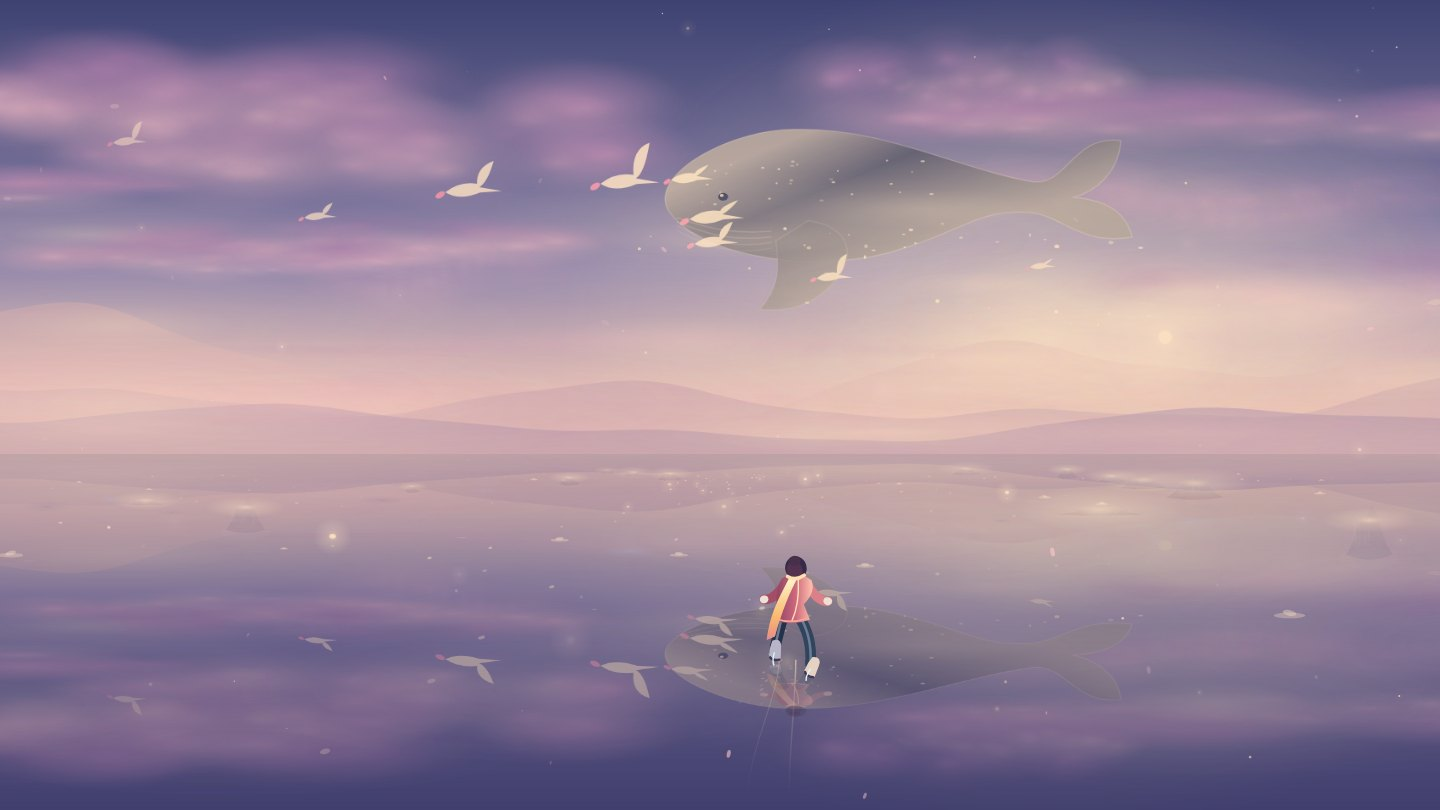
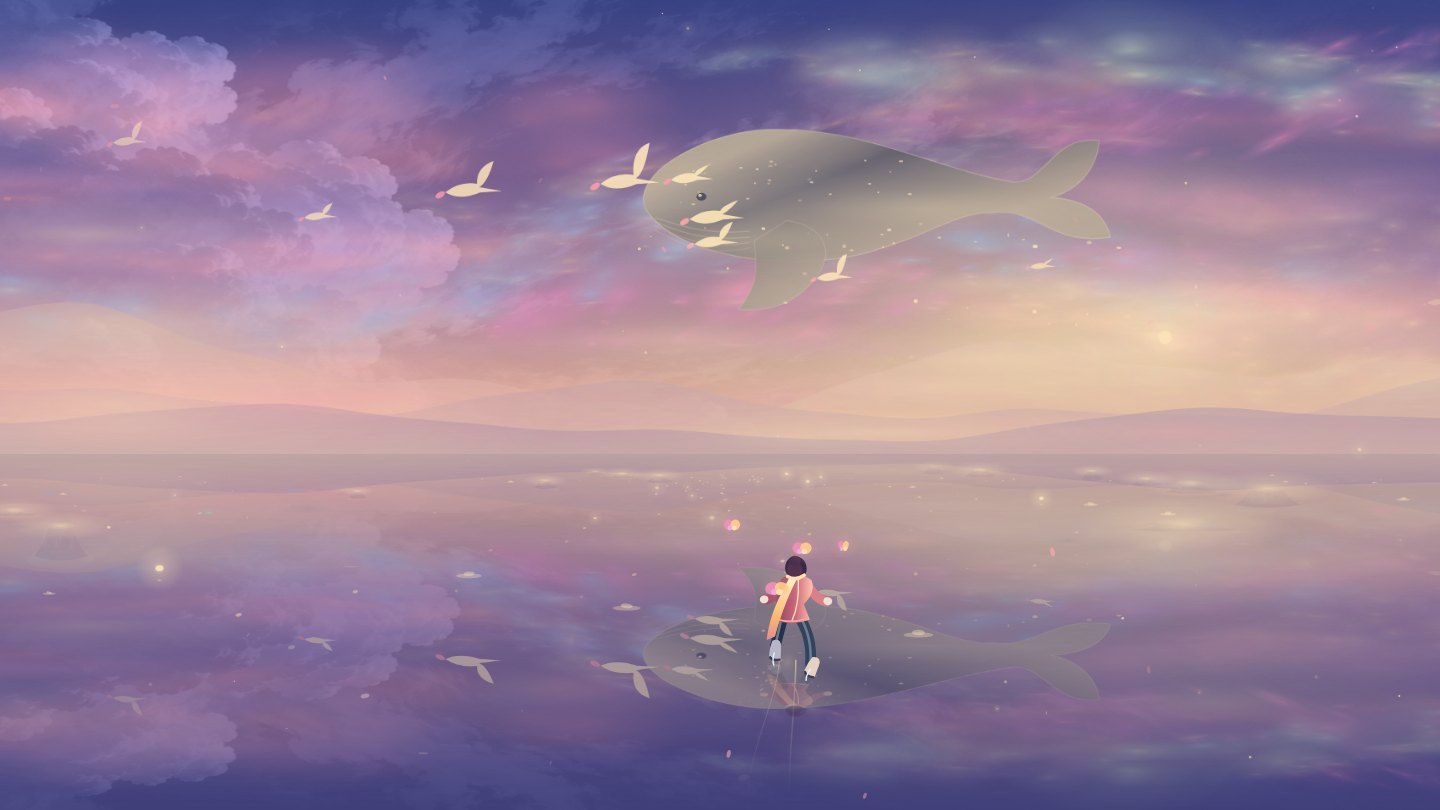
Paint richer dreamscapes and add fleeting companions and verses

diff --git a/index.html b/index.html
@@ -91,7 +91,6 @@ dialog p{color:var(--muted);font-size:13px;margin:8px 0 17px}
       <button class="tool" id="view" type="button" aria-label="开启观景模式" aria-pressed="false" title="观景模式 · H">
         <svg viewBox="0 0 24 24" aria-hidden="true"><path d="M9 4H4v5m11-5h5v5M4 15v5h5m11-5v5h-5"/></svg>
       </button>
-      <button class="tool" id="journal" type="button" aria-label="打开滑行手记" title="滑行手记">卷</button>
       <button class="tool" id="help" type="button" aria-label="操作说明" title="操作说明">?</button>
     </nav>
   </header>
@@ -150,7 +149,8 @@ dialog p{color:var(--muted);font-size:13px;margin:8px 0 17px}
     <h2 id="helpTitle">自在滑行</h2>
     <p><kbd>←</kbd> <kbd>→</kbd> 或左右拖动转向。<kbd>空格</kbd> 蹬冰，<kbd>↑</kbd> / <kbd>↓</kbd> 加速或刹停。触屏可上下拖动，或按住「加速」「刹停」。</p>
     <p><kbd>Enter</kbd> 换梦，<kbd>H</kbd> 观景，<kbd>P</kbd> 留影。靠近冰面上的光点，会遇见几句旅途中的话。</p>
-    <p>松开按键后，你会凭惯性继续滑。按住刹停可以留在原地看风景。海棠、海雾、鲲与云海会依次出现，读过的话会留在「卷」里。配乐会随场景变化，点右上角扬声器可以开关。</p>
+    <p>松开按键后，你会凭惯性继续滑。按住刹停可以留在原地看风景。海棠、海雾、鲲与云海会依次出现。配乐会随场景变化，点右上角扬声器可以开关。</p>
+    <button class="chip" id="journal" type="button">滑行手记</button>
   </dialog>
 </main>
 <script>
@@ -185,19 +185,21 @@ function dreamFor(word) {
 const chapters = [
   {at:0, name:"海棠渡", icon:"✿", weather:"晨光 · 花瓣", index:0, seed:45,
     lines:[[0,"一朵海棠逆着风，在你的冰刀前打了个旋。"],[205,"花瓣贴着冰面滑向水天交界处。你侧过身，顺着它划出的弧线追过去。"]]},
-  {at:450, name:"海雾深处", icon:"≋", weather:"潮声 · 雾起", index:2, seed:109,
-    sky:[53,59,93], mid:[137,128,159], line:[235,178,166], cloud:[224,177,179], hills:[112,94,137], water:[43,42,73], light:[255,205,178],
-    lines:[[0,"花瓣一片片沉入雾里。雾的另一侧，有什么缓缓吐出一口气。"],[230,"那一口气吹开了海面。你看见水下有一条比岛还长的影子。"]]},
-  {at:1010, name:"北冥有鱼", icon:"◒", weather:"深海 · 鲲游", index:1, seed:193,
-    lines:[[35,"北冥有鱼，其名为鲲。"],[315,"它从水里抬起背脊，散落的水珠停在了空中。"]]},
-  {at:1700, name:"天接云涛", icon:"☁", weather:"云浪 · 天河", index:2, seed:313,
-    sky:[61,66,113], mid:[145,133,170], line:[255,204,179], cloud:[247,195,196], hills:[133,109,159], water:[67,61,107], light:[255,228,195],
-    lines:[[45,"天接云涛连海雾。"],[325,"鲲在云浪间翻身，惊起几只白色的飞鱼。它们衔着海棠，把天边染得微红。"]]},
-  {at:2440, name:"天河星原", icon:"✦", weather:"星雨 · 长夜", index:3, seed:411,
-    lines:[[55,"鲲往更深的夜里去了。一片花瓣落在你的围巾上，和出发时一样轻。"],[340,"远处还有星光。你可以跟着它继续滑，也可以在这里多待一会儿。"]]}
+  {at:450, name:"海雾深处", icon:"≋", weather:"潮声 · 雾起", index:2, seed:109, painting:1,
+    sky:[48,57,99], mid:[155,117,158], line:[237,178,158], cloud:[229,159,187], shadow:[94,84,143], hills:[97,114,151], water:[41,47,81], light:[255,217,180],
+    lines:[[0,"雾从冰缝里慢慢涨起来，把远山染成淡紫色。"],[155,"一只白鸟贴着雾飞。它每拍一下翅膀，冰里就亮一小片。"],[310,"白鸟转向了海的另一边。你听见雾深处，有什么长长地呼出一口气。"],[465,"薄冰之下，一条比岛还长的影子，正朝着天光游去。"]]},
+  {at:1080, name:"北冥有鱼", icon:"◒", weather:"深海 · 鲲游", index:1, seed:193, painting:2,
+    sky:[21,34,77], mid:[56,119,139], line:[139,205,194], cloud:[135,180,223], shadow:[77,62,133], hills:[56,91,125], water:[16,44,75], light:[196,255,223],
+    lines:[[35,"北冥有鱼，其名为鲲。"],[190,"它抬起背脊，冰下的青光沿着鳞纹，一寸一寸亮起来。"],[340,"从它身上落下来的水珠没有落地。一颗停在眉前，一颗成了远处的星。"],[510,"你抬头时，它已游过月亮。冰面还替你留着它的影子。"]]},
+  {at:1740, name:"天接云涛", icon:"☁", weather:"云浪 · 天河", index:2, seed:313, painting:3,
+    sky:[60,69,135], mid:[162,125,168], line:[255,205,165], cloud:[250,165,174], shadow:[112,107,180], hills:[125,110,164], water:[69,61,115], light:[255,231,186],
+    lines:[[40,"天接云涛连海雾。"],[195,"鲲在云浪间翻身，惊起几只白色的飞鱼。它们衔着海棠，把天边染得微红。"],[350,"两只蝶在你肩旁停了一会儿。它们的翅膀，一面是暮色，一面是金光。"],[520,"云从你脚下过去，留下一道桃色的倒影。再回头，蝴蝶已经飞进云里。"]]},
+  {at:2470, name:"天河星原", icon:"✦", weather:"星雨 · 长夜", index:3, seed:411, painting:4,
+    sky:[18,25,68], mid:[77,67,141], line:[159,145,202], cloud:[164,150,230], shadow:[66,62,136], hills:[83,90,155], water:[25,37,84], light:[218,222,255],
+    lines:[[45,"鲲往更深的夜里去了。一片海棠落在你的围巾上，和出发时一样轻。"],[220,"几只萤火虫跟在冰刀后面，像怕踩疼星光，一闪一闪地绕过你的脚边。"],[430,"萤火虫在远处各自散开。最后一点光停了一瞬，也飞走了。"],[590,"我挥一挥衣袖，不带走一片云彩。"],[775,"冰上还留着两道浅浅的弧线。过一会儿，天光就会把它们填满。"]]}
 ];
 const original = {...palettes[0],...chapters[0],word:"",whale:false};
-let chapterIndex=0, routeDistance=0, routePosition=0, routeMode=true, nextLine=0, storyUntil=0;
+let chapterIndex=0, routeDistance=0, routePosition=0, routeMode=true, nextLine=0, storyUntil=0, waveUntil=0;
 const journal = new Map(), pendingLines = [];
 const snapshots = [];
 const viewingDialog = () => ["dreamDialog","helpDialog","journalDialog"].some(id=>$(id).open);
@@ -207,7 +209,8 @@ function storyLine(chapter, lineIndex) {
   $("storyTitle").textContent=chapter.name;
   $("storyLine").textContent=text;
   $("story").classList.add("show");
-  storyUntil=t+7;
+  if(chapter===chapters[4]&&lineIndex===3) waveUntil=t+2.8;
+  storyUntil=t+Math.max(6.6,Math.min(9.2,3.8+Array.from(text).length*.102));
 }
 function travelStory(dt) {
   routePosition=Math.max(0,routePosition+dt*velocity*32);
@@ -218,7 +221,7 @@ function travelStory(dt) {
   }
   const next=chapters[chapterIndex+1];
   if(next && routeDistance>=next.at) enterChapter(chapterIndex+1);
-  if(pendingLines.length && t>=storyUntil-(velocity>1.45?3:1.3)){
+  if(pendingLines.length && t>=storyUntil-(velocity>1.45?3.7:1.7)){
     storyLine(...pendingLines.shift());
   }
 }
@@ -238,7 +241,7 @@ function enterChapter(index, jump=false) {
   const chapter=chapters[index];
   if(jump) {
     routePosition=routeDistance=chapter.at;
-    pendingLines.length=0;storyUntil=0;
+    pendingLines.length=0;storyUntil=waveUntil=0;
     $("story").classList.remove("show");
   }
   routeMode=true;chapterIndex=index;nextLine=0;
@@ -385,6 +388,7 @@ function paintSky(p) {
         bloom(c,0,0,rx,blend(p.shadow,p.cloud,.24+v*.72),.12+size*.4);c.restore();
       }
     }
+    if(p.painting) paintedClouds(c,w,h,p);
     skyDetail(c,w,h,p);
     for(let i=0;i<3;i++) ridge(c,w,h,p,i);
     for(let i=0;i<10;i++){
@@ -395,6 +399,110 @@ function paintSky(p) {
   }
   return b;
 }
+const pigments = [
+  [[251,168,178],[255,210,156],[143,162,220],[174,118,190],[128,193,207],[252,226,184]],
+  [[245,174,152],[231,143,185],[117,161,217],[164,124,208],[120,204,198],[255,225,189]],
+  [[179,240,206],[107,185,235],[160,122,228],[249,173,193],[94,224,199],[249,227,169]],
+  [[255,192,143],[250,140,178],[133,164,241],[181,118,212],[148,211,209],[255,234,175]],
+  [[151,177,250],[208,136,227],[100,174,221],[245,158,180],[118,209,224],[255,220,160]]
+];
+function paintedClouds(c,w,h,p){
+  const colors=pigments[p.painting];
+  // The same sky grain sits under each study, with its own colored cloud banks.
+  if(art.complete&&art.naturalWidth){
+    c.save();c.globalAlpha=p.painting===3?.34:.22;c.globalCompositeOperation="luminosity";
+    const sw=Math.min(art.naturalWidth,art.naturalHeight*w/h);
+    const sh=Math.min(art.naturalHeight,sw*h/w);
+    c.drawImage(art,(art.naturalWidth-sw)*hash(p.seed),0,sw,sh,0,0,w,h);c.restore();
+  }
+  const banks=p.painting===3?9:7;
+  for(let bank=0;bank<banks;bank++){
+    const seed=p.seed*29+bank*101;
+    const x=w*(-.17+hash(seed)*1.26), y=h*(.14+hash(seed+7)*.68);
+    const span=w*(.35+hash(seed+11)*.49), thick=h*(.11+hash(seed+16)*.18);
+    const tone=colors[bank%colors.length], accent=colors[(bank+2)%colors.length];
+    for(let i=0;i<112;i++){
+      const q=seed+i*53, u=hash(q+1), v=hash(q+5), crest=Math.sin(u*Math.PI)**.7;
+      const bend=Math.sin(u*5.8+bank)*.38+Math.sin(u*12+bank*3)*.13;
+      const cx=x+(u-.5)*span, cy=y+(bend+(v-.50)*crest)*thick;
+      const r=span*(.012+hash(q+9)**2*.063);
+      const hue=blend(tone,accent,hash(q+12)*.68);
+      c.save();c.translate(cx,cy);c.rotate(-.17+.33*Math.cos(u*6+bank));c.scale(1,.20+hash(q+2)*.51);
+      bloom(c,0,0,r,hue,crest*(.14+hash(q+21)*.38));c.restore();
+      if(i%4===0){
+        const stroke=blend(hue,colors[5],.29+hash(q+34)*.39);
+        c.save();c.translate(cx,cy+thick*.09);c.rotate(-.17+hash(q+43)*.31);
+        c.scale(1,.12+hash(q+8)*.26);
+        bloom(c,0,0,r*.67,stroke,crest*.39);c.restore();
+      }
+    }
+  }
+}
+function reflectedPigments(){
+  const deep=H-horizon, mix=smooth(transition);
+  const strength=lerp(Number(Boolean(previous.painting)),Number(Boolean(current.painting)),mix);
+  if(strength<.005)return;
+  const before=pigments[previous.painting||0], after=pigments[current.painting||0];
+  for(let i=0;i<40;i++){
+    const offset=hash(i+612)*880-distance, z=66+wrap(offset,880);
+    const seed=i+Math.floor(offset/880)*47, p=project((hash(seed+83)-.5)*640,z);
+    const width=(22+hash(seed+128)*108)*p.scale;
+    if(p.x+width<0||p.x-width>W)continue;
+    const amount=strength*smooth((z-66)/48)*smooth((930-z)/520);
+    const color=blend(before[i%6],after[i%6],mix);
+    ctx.save();ctx.translate(p.x,p.y);ctx.rotate(-.12+hash(seed+9)*.19);ctx.scale(1,.12+hash(seed+34)*.14);
+    bloom(ctx,0,0,width,color,amount*(.18+hash(seed+217)*.35));ctx.restore();
+    if(i%5===0) ellipse(ctx,p.x,p.y+deep*.006,width*.24,.75+p.scale,rgba(color,amount*.36),-.09);
+  }
+}
+const encounters = [
+  {kind:"bird",at:560,end:762,count:3},
+  {kind:"bird",at:1380,end:1675,count:2},
+  {kind:"butterfly",at:2025,end:2245,count:4},
+  {kind:"firefly",at:2535,end:2925,count:9}
+];
+function drawCompanions(px,py,scale,light){
+  if(!routeMode)return;
+  for(const {kind,at,end,count} of encounters){
+    if(routeDistance<at-130||routeDistance>end+95+(count-1)*11)continue;
+    for(let i=0;i<count;i++){
+      const delay=i*11, arrival=smooth((routeDistance-at+115-delay)/135);
+      const leave=smooth((routeDistance-end+58-delay)/153);
+      const opacity=arrival*(1-leave);
+      if(opacity<.004)continue;
+      const seed=at+i*51, side=i%2?1:-1, phase=t*(.9+hash(seed)*.46)+i*2.39;
+      const bird=kind==="bird", butterfly=kind==="butterfly";
+      const reach=bird?95:butterfly?47:52;
+      const follow=(12+hash(seed+9)*reach)*scale;
+      const x=px+side*(follow+(1-arrival+leave)*W*.39)+Math.cos(phase)*scale*(bird?17:13);
+      const flight=reduced?.48:1;
+      const y=py-(bird?120+hash(seed+7)*94:butterfly?53+hash(seed+7)*62:14+hash(seed+7)*49)*scale
+        +Math.sin(phase*.83)*scale*11*flight-leave*H*.32;
+      const size=scale*(.68+hash(seed+12)*.58);
+      ctx.save();ctx.translate(x,y);ctx.scale(size,size);ctx.globalAlpha=opacity;
+      if(bird){
+        const wing=4+Math.sin(t*6+i)*5;
+        ctx.fillStyle=rgba(blend(light,[234,227,255],.54),1);ctx.beginPath();
+        ctx.moveTo(-18,2);ctx.quadraticCurveTo(-8,-wing,0,1);ctx.quadraticCurveTo(9,-wing-2,19,0);
+        ctx.quadraticCurveTo(9,-1,1,5);ctx.quadraticCurveTo(-9,1,-18,2);ctx.fill();
+        ellipse(ctx,0,3,2.2,2.1,"#fff1d7");
+      }else if(butterfly){
+        const spread=.32+.68*Math.abs(Math.sin(t*9+i));
+        bloom(ctx,0,0,15,[255,167,174],.33);
+        ellipse(ctx,-4*spread,0,6*spread,5,rgba([244,142,185],.91),-.32);
+        ellipse(ctx,4*spread,0,6*spread,5,rgba([255,206,141],.91),.32);
+        ellipse(ctx,-2,3,2.9*spread,2.3,"#ebafdf");ellipse(ctx,2,3,2.9*spread,2.3,"#ffe1ac");
+      }else{
+        const glow=.37+.57*(.5+.5*Math.sin(phase*1.6));
+        const color=i%3?[255,224,148]:[163,247,211];
+        bloom(ctx,0,0,10+glow*9,color,glow*.68);
+        ellipse(ctx,0,0,1.5,1.5,rgba(color,glow));
+      }
+      ctx.restore();
+    }
+  }
+}
+
 function drawCached(b, alpha){
   if(!b||alpha<=0)return;
   sk.globalAlpha=alpha;
@@ -473,6 +581,7 @@ function drawWater(light,water) {
   const veil=ctx.createLinearGradient(0,horizon,0,H);
   veil.addColorStop(0,rgba(light,.09));veil.addColorStop(.43,rgba(water,.19));veil.addColorStop(1,rgba(water,.46));
   ctx.fillStyle=veil;ctx.fillRect(0,horizon,W,deep);
+  reflectedPigments();
   const coolTint=[110,148,255], warmTint=[242,167,197];
   const pearl=blend(light,blend(
     previous.index%2?coolTint:warmTint,current.index%2?coolTint:warmTint,smooth(transition)),.48);
@@ -662,8 +771,8 @@ function kun(c,x,y,size,tilt,alpha,light,shadow){
 }
 function drawSkyLife(light) {
   const w=sky.width,h=sky.height,travel=routeDistance;
-  const ascent=smooth((travel-995)/570);
-  const alpha=routeMode?smooth((travel-995)/320)*(1-smooth((travel-2270)/460)):0;
+  const ascent=smooth((travel-1060)/540);
+  const alpha=routeMode?smooth((travel-1060)/280)*(1-smooth((travel-2270)/460)):0;
   const preset=(current.whale?smooth(transition):0)+(previous.whale?1-smooth(transition):0);
   const size=Math.min(w/770,h/380);
   if(alpha>.001){
@@ -836,10 +945,11 @@ function traveler(c,x,y,scale,reflection){
     c.restore();
   };
   foot(stride>0?-1:1);foot(stride>0?1:-1);
+  const farewell=routeMode&&!reduced?Math.sin(Math.PI*clamp((waveUntil-t)/2.8,0,1)):0;
   for(const side of [-1,1]){
     const spread=24+Math.abs(edgeLean)*8+brake*6;
     const handX=shoulderX+side*spread;
-    const handY=shoulderY+17+side*edgeLean*13-side*stride*5;
+    const handY=shoulderY+17+side*edgeLean*13-side*stride*5-(side===1?farewell*32:0);
     line(side===-1?"#a34e65":"#db7f88",8,shoulderX+side*9,shoulderY+3,handX-side*8,handY+1,handX,handY);
     ellipse(c,handX,handY,3.7,3.3,"#ede1d5",side*.28);
   }
@@ -934,6 +1044,7 @@ function render(ms) {
   traveler(ctx,px,py+4,scale,true);ctx.restore();
   bloom(ctx,px,py+2,28*scale,light,.25);
   traveler(ctx,px,py,scale,false);
+  drawCompanions(px,py,scale,light);
   if(t>0){
     const weather = !routeMode && !dreamTheme && current.index===0 && timeInDream>25 ? "薄暮 · 湖雾" : current.weather;
     if($("weather").textContent!==weather) $("weather").textContent=weather;
@@ -1094,7 +1205,7 @@ function openDream(){
   $("word").focus();
 }
 $("start").onclick=play;
-$("journal").onclick=showJournal;
+$("journal").onclick=()=>{ $("helpDialog").close();showJournal(); };
 // Closing a dialog hands focus back to the button that opened it; blur it so
 // the next Space pushes off instead of re-opening the dialog.
 for(const id of ["dreamDialog","journalDialog","helpDialog"]){

diff --git a/README.md b/README.md
@@ -12,7 +12,9 @@
 | --- | --- |
 | ![鲲从海雾中升起](reverie-kun.jpg) | ![鲲与衔花的飞鱼游过云海](reverie-clouds.jpg) |
 
-![天河星原的星夜](reverie-stars.jpg)
+![海雾深处，白鸟贴着珊瑚粉与灰蓝交叠的薄雾飞过](reverie-mist.jpg)
+
+![天河星原的星夜，萤火虫环绕滑冰者](reverie-stars.jpg)
 
 ## 跟着海棠滑行
 
@@ -26,7 +28,11 @@
 | 天接云涛 | 「天接云涛连海雾。」鲲游进云浪，几只飞鱼衔着海棠从天边掠过。 |
 | 天河星原 | 月光和星雨映在蓝紫色冰面上。你可以继续滑，也可以翻开手记，从海棠渡再出发。 |
 
-靠近冰面上的光点，会读到偶遇的短句。右上角的「卷」收录这一趟已经读过的剧情。打开手记、说明或换梦面板时，航程暂停。
+靠近冰面上的光点，会读到偶遇的短句。右上角「？」里的「滑行手记」收录这一趟已经读过的剧情。打开手记、说明或换梦面板时，航程暂停。
+
+飞鸟会贴着海雾陪你飞一段，蝴蝶会在云海里绕过肩头，萤火虫会追着冰刀的微光。它们各有自己的去处。后四幕的诗句随滑行距离和景物的变化陆续出现。
+
+海雾以珊瑚粉与灰蓝交叠，北冥有青绿、淡紫和暖金的极光，云海叠着杏金与玫瑰色，星原则有靛蓝、藤紫和零星暖光。冰面会映出这些颜色，也有随滑行经过脚下的碎色。
 
 ## 操作
 
@@ -39,7 +45,7 @@
 | 隐藏或恢复界面 | H | 右上角观景按钮 |
 | 保存当前画面 | P | 「留影」，下载 PNG 并收进手记 |
 | 音乐和环境音 | | 首次点按或按键后响起，可用右上角扬声器开关 |
-| 回看剧情、重走航程 | | 右上角「卷」 |
+| 回看剧情、重走航程 | | 右上角「？」→「滑行手记」 |
 
 「换一个梦」里可以输入 **北冥**、**云海** 或 **海棠**，直接进入对应的航段。输入 **鲸鱼**、**月亮**、**极光**、**花海** 等词，可以在自由梦境中漫游。想接着读剧情时，打开换梦面板，选「回到航程」。选中的梦会继续给沿途风景染色，重新出发可清除梦境。
 
@@ -53,6 +59,6 @@
 | --- | --- |
 | `index.html` | 游戏入口，含页面样式、航程脚本、Canvas 场景和 Web Audio 环境音。 |
 | `README.md` | 航程、玩法和操作说明。 |
-| `reverie-*.jpg` | 从游戏 Canvas 保存的四段航程画面。 |
+| `reverie-*.jpg` | 从游戏 Canvas 保存的五段航程画面。 |
 
 游戏由单个 HTML 文件运行，无需安装依赖。GitHub Pages 从 `main` 分支的根目录提供游戏。
